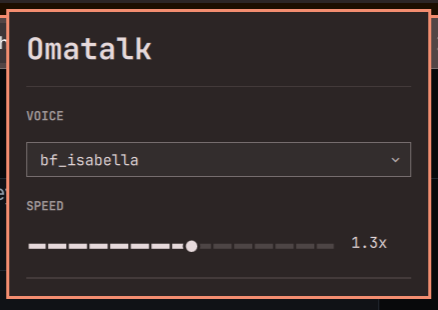
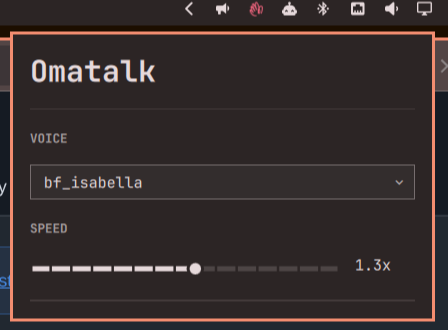
Update the config-panel screenshot to show the tick-marked slider

diff --git a/public/index.html b/public/index.html
@@ -944,7 +944,7 @@
       script. Everything else is two files, edited by hand.</p>
 
     <figure class="config-panel-figure">
-      <img src="images/omatalk-config-panel.png" alt="Omatalk's voice and speed config panel, opened from the bar icon" width="438" height="310" loading="lazy" decoding="async">
+      <img src="images/omatalk-config-panel.png" alt="Omatalk's voice and speed config panel, opened from the bar icon" width="448" height="330" loading="lazy" decoding="async">
       <figcaption>Voice picker + speed slider. Selecting a voice or releasing the slider saves immediately.</figcaption>
     </figure>
 
